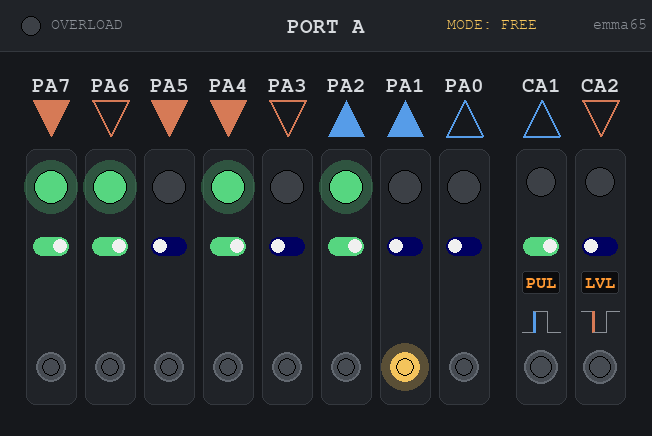
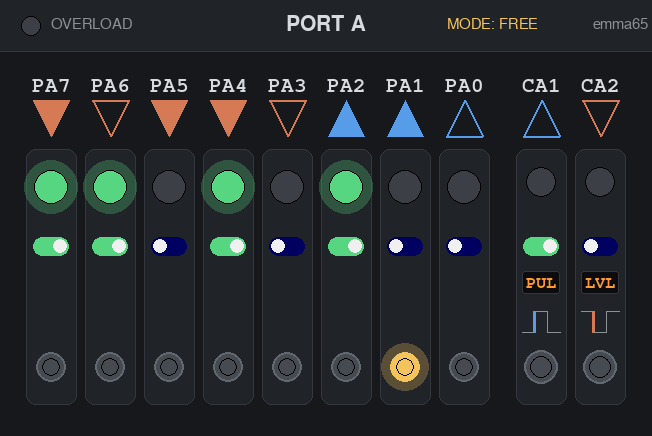
Use a regular UI font for status bar and connection-status text
The monospace font in the header/footer was inherited from row_mockup.py
reusing one font family everywhere, not a deliberate design choice, and
reads as unpolished for plain prose text ("OVERLOAD", "MODE: FREE"). Pin
labels and the segment display keep the monospace font -- the labels want
fixed-width row alignment and the segment display is intentionally styled
as a digital/VFD readout (checkpoint 2).

Claude-Session: https://claude.ai/code/session_01GAdDcFjmZa66ZNGTFTjKsS

diff --git a/via-playground/src/emma65_via_playground/cells.py b/via-playground/src/emma65_via_playground/cells.py
@@ -172,12 +172,26 @@ def draw_pulse_icon(surf, cx, cy, w, h, polarity: Polarity):
     pygame.draw.line(surf, TEXT_DIM, (x2, idle_y), (x3, idle_y), 1)
 
 
+UI_FONT = "Arial,Helvetica,DejaVu Sans,sans-serif"
+
+
 class Fonts:
-    """Fonts used by cell rendering. Created after `pygame.font.init()`."""
+    """Fonts used by cell rendering. Created after `pygame.font.init()`.
+
+    `label` and `seg` stay monospace -- pin labels (PA7, ...) want the
+    fixed-width alignment across the row, and the segment display is
+    intentionally styled as a digital/VFD readout (checkpoint 2). Status
+    bar and connection-status chrome use a regular UI font instead: their
+    monospace rendering was just inherited from the mockup reusing one
+    font everywhere, not a deliberate design choice, and reads as
+    unpolished for plain prose text like "OVERLOAD" or "MODE: FREE".
+    """
 
     def __init__(self):
         self.label = pygame.font.SysFont("Consolas,Menlo,monospace", sc(16), bold=True)
         self.seg = pygame.font.SysFont("Consolas,Menlo,monospace", sc(13), bold=True)
+        self.ui_title = pygame.font.SysFont(UI_FONT, sc(16), bold=True)
+        self.ui_small = pygame.font.SysFont(UI_FONT, sc(12))
 
 
 class Cell:
@@ -326,11 +340,10 @@ def draw_status_bar(surf, fonts, title: str, width: int) -> None:
     OVERLOAD and MODE are static placeholders here -- they get wired up in
     Units 10-11 (contention detection, Free/Guarded mode).
     """
-    small = pygame.font.SysFont("Consolas,Menlo,monospace", sc(12))
     pygame.draw.rect(surf, PANEL, (0, 0, width, status_h))
     pygame.draw.line(surf, PANEL_EDGE, (0, status_h), (width, status_h), 1)
     draw_led(surf, sc(24), sc(20), sc(8), on=False)
-    draw_text(surf, small, "OVERLOAD", TEXT_DIM, topleft=(sc(40), sc(13)))
-    draw_text(surf, small, "MODE: FREE", ACCENT, topleft=(width - sc(160), sc(13)))
-    draw_text(surf, fonts.label, title, TEXT, center=(width // 2, sc(20)))
-    draw_text(surf, small, "emma65", TEXT_DIM, topleft=(width - sc(46), sc(13)))
+    draw_text(surf, fonts.ui_small, "OVERLOAD", TEXT_DIM, topleft=(sc(40), sc(13)))
+    draw_text(surf, fonts.ui_small, "MODE: FREE", ACCENT, topleft=(width - sc(160), sc(13)))
+    draw_text(surf, fonts.ui_title, title, TEXT, center=(width // 2, sc(20)))
+    draw_text(surf, fonts.ui_small, "emma65", TEXT_DIM, topleft=(width - sc(46), sc(13)))

diff --git a/via-playground/src/emma65_via_playground/app.py b/via-playground/src/emma65_via_playground/app.py
@@ -78,7 +78,6 @@ def run(args: argparse.Namespace) -> None:
 
     clock = pygame.time.Clock()
     fonts = cells.Fonts()
-    status_font = pygame.font.SysFont("Consolas,Menlo,monospace", cells.sc(12))
 
     peripheral = Peripheral(args)
 
@@ -101,7 +100,7 @@ def run(args: argparse.Namespace) -> None:
         status = "connected" if peripheral.connected else "connecting..."
         color = CONNECTED_COLOR if peripheral.connected else DISCONNECTED_COLOR
         cells.draw_text(
-            screen, status_font, f"{status}  ({args.socket})", color,
+            screen, fonts.ui_small, f"{status}  ({args.socket})", color,
             topleft=(cells.LEFT_MARGIN, cells.CONTENT_HEIGHT + cells.sc(4)),
         )
 
